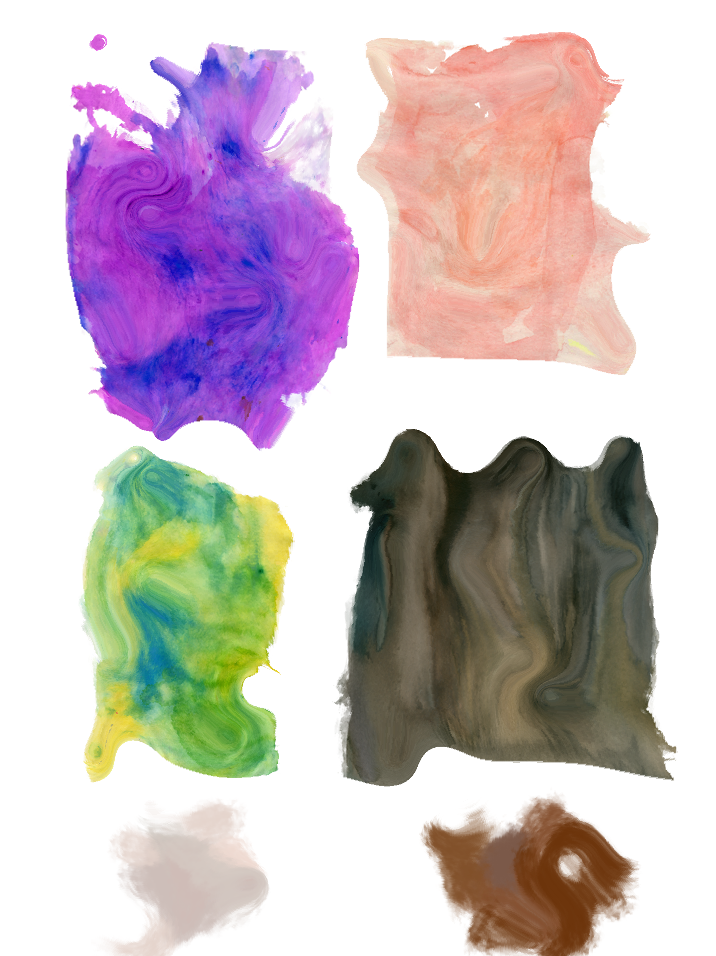
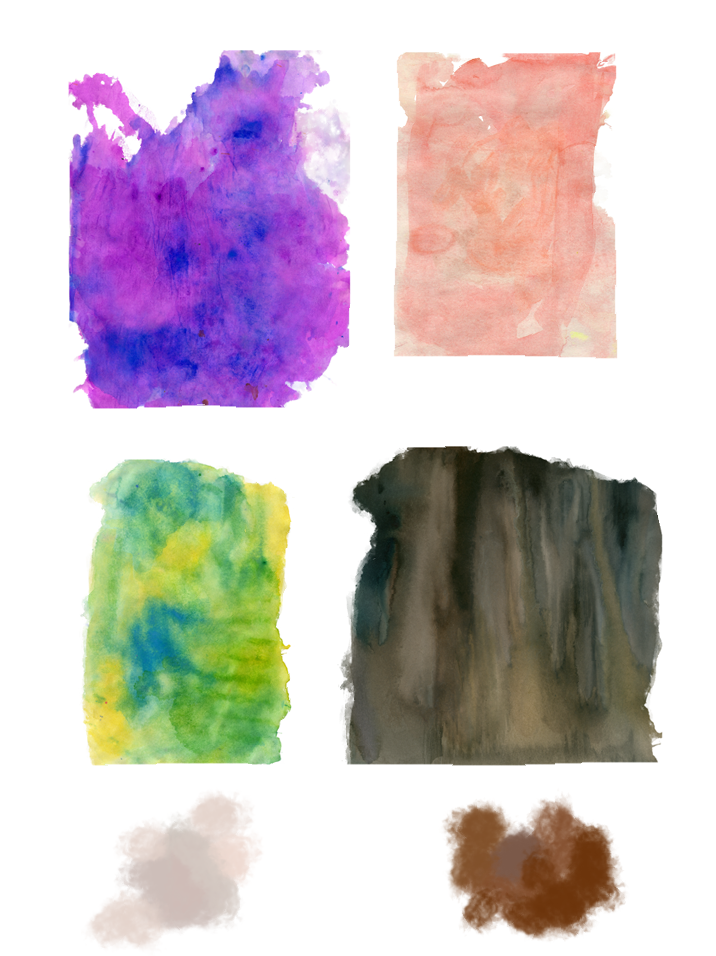
cleaned up

diff --git a/cult.cpp b/cult.cpp
@@ -73,54 +73,28 @@ void Cult::run(const QStringList &framePaths, const QString &texturePath) {
 Image Cult::processFrame(const Image& frame, const Image& prevOutput){
     std::cout<<"Processing frame"<<std::endl;
     std::vector<Image> framePyramid = ImagePyramid::make_gaussian_pyramid(frame, FILTER_STRENGTH);
-    //std::cout<<"Created frame pyramids"<<std::endl;
-
-
-
-    // // Initialize coarsest target level with low-pass filtered reference
-    // Image coarsestTarget = framePyramid.back();  // coarsest level
-    // // Replace with low-pass filtered version of the reference frame
-    // Image filteredRef = ImagePyramid::blur(frame, FILTER_STRENGTH);
-    // // Downsample to match coarsest pyramid level dimensions
-    // while(filteredRef.width > coarsestTarget.width || filteredRef.height > coarsestTarget.height){
-    //     filteredRef = ImagePyramid::downsample(filteredRef, FILTER_STRENGTH);
-    // }
-    // framePyramid.back() = filteredRef;
-
-
 
     Image currentResult = framePyramid.back();
     Image output_frame = framePyramid.back(); // start at coarsest/most blurred (end of pyramid)
 
-    //        //MAIN LOOP
-    //        for (Image& level : cur_pyramid) {
-    //            //S_deformed = deformImage()
-    //            //for each patch in Image:
-    //                //best_patch = find_match(patch, s_deformed)
-    //                //Copy best patch to output image
-    //                m_outputFrames.push_back(output_frame);
-    //        }
-
     Image s_deformed = deformImage(m_sourceTexture);
+
+    //REPLACE WITH BORDER
+    Image s_border = s_deformed;
+
     QString deformed_outPath = QString("../color-me-noisy/debug_pyramid/source_deformed.png");
     ImageUtils::writeImage(s_deformed, deformed_outPath);
     std::cout<<"Deformed source texture"<<std::endl;
 
     std::vector<Image> sourcePyramid = ImagePyramid::make_gaussian_pyramid(s_deformed, FILTER_STRENGTH);
     // std::cout<<"Created source pyramids"<<std::endl;
+    std::vector<Image> borderPyramid = ImagePyramid::make_gaussian_pyramid(s_border, FILTER_STRENGTH);
 
     for(int i = 0; i < sourcePyramid.size(); i++){
         Image cur_image = sourcePyramid[i];
         QString outPath = QString("../color-me-noisy/debug_pyramid/texpyramid_level_%1.png").arg(i);
         ImageUtils::writeImage(cur_image, outPath);
     }
-
-    // std::cout<<"Target image dimensions: "<<frame.width<<"x"<<frame.height<<std::endl;
-
-    // std::cout << "Frame pyramid levels: " << framePyramid.size() << std::endl;
-    // for (int i = 0; i < framePyramid.size(); i++) {
-    //     std::cout << "  framePyramid[" << i << "]: " << framePyramid[i].width << "x" << framePyramid[i].height << std::endl;
-    // }
 
     //Original
     NNF prevNNF;
@@ -133,16 +107,10 @@ Image Cult::processFrame(const Image& frame, const Image& prevOutput){
 
 //        Image& cur_target = framePyramid[level];
         Image& cur_source = sourcePyramid[level];
+        Image& cur_border = borderPyramid[level];
         if (level < (int)framePyramid.size() - 1) {
             currentResult = ImagePyramid::upsample(currentResult);
         }
-
-        // if (level == (int)framePyramid.size() - 1) {
-        //     // Coarsest level: no seed, just match directly
-        //     output_frame = patchmatch(cur_target, cur_source);
-        // } else {
-        //     output_frame = patchmatch(output_frame, cur_source);
-        // }
 
 
         NNF* seedNNF = nullptr;
@@ -153,78 +121,30 @@ Image Cult::processFrame(const Image& frame, const Image& prevOutput){
             seedNNF = &upscaled;
         }
 
-        prevNNF = Patchmatch::run_patchmatch(currentResult, cur_source, PATCH_RADIUS, PATCHMATCH_ITERATIONS, seedNNF);
-        output_frame = vote(currentResult, cur_source, prevNNF);
+        prevNNF = Patchmatch::run_patchmatch(currentResult, cur_source, cur_border, PATCH_RADIUS, PATCHMATCH_ITERATIONS, seedNNF);
+        output_frame = vote(currentResult, cur_source, cur_source, prevNNF);
         currentResult = output_frame;
 
         QString dbgPath = QString("../color-me-noisy/debug_pyramid/framepyramid_dbg_level_%1.png").arg(level);
         ImageUtils::writeImage(output_frame, dbgPath);
 
-        // if (level > 0) { //dont upsample at the last level
-        //     output_frame = ImagePyramid::upsample(output_frame);
-        // }
     }
 
     return output_frame;
 
-
-
-    // Image current = framePyramid.back();  // coarsest low-pass reference
-    // NNF prevNNF;
-
-    // for (int level = framePyramid.size() - 1; level >= 0; --level) {
-    //     Image& cur_source = sourcePyramid[level];
-
-    //     NNF* seedNNF = nullptr;
-    //     NNF upscaled;
-    //     if (level < (int)framePyramid.size() - 1) {
-    //         upscaled = Patchmatch::upscaleNNF(
-    //             prevNNF,
-    //             framePyramid[level + 1].width,
-    //             framePyramid[level + 1].height,
-    //             current.width,
-    //             current.height
-    //             );
-    //         seedNNF = &upscaled;
-    //     }
-
-    //     for (int iter = 0; iter < WEXLER_ITERS; ++iter) {
-    //         prevNNF = Patchmatch::run_patchmatch(
-    //             current,
-    //             cur_source,
-    //             PATCH_RADIUS,
-    //             PATCHMATCH_ITERATIONS,
-    //             seedNNF
-    //             );
-
-    //         current = vote(current, cur_source, prevNNF);
-
-    //         // After first iteration, use current NNF normally
-    //         seedNNF = nullptr;
-    //     }
-
-    //     if(level > 0){
-    //         current = ImagePyramid::upsample(current);
-    //     }
-
-    //     QString dbgPath = QString("../color-me-noisy/debug_pyramid/ouput_level_%1.png").arg(level);
-    //     ImageUtils::writeImage(current, dbgPath);
-    // }
-
-    // return current;
 }
 
-Image Cult::patchmatch(const Image& target, const Image& source){
+Image Cult::patchmatch(const Image& target, const Image& source, const Image& boundarySource){
     Image output_image;
 
     //std::cout<<"Running Patchmatch"<<std::endl;
     NNF nnf = Patchmatch::run_patchmatch(target, source, PATCH_RADIUS, PATCHMATCH_ITERATIONS);
-    output_image = vote(target, source, nnf);
+    output_image = vote(target, source, boundarySource, nnf);
     //std::cout<<"Finished Patchmatch and Voting"<<std::endl;
     return output_image;
 }
 
-Image Cult::vote(const Image& target, const Image& source, NNF& nnf){
+Image Cult::vote(const Image& target, const Image& source, const Image& boundary, NNF& nnf){
 
 
     Image processed_frame = target;
@@ -262,53 +182,6 @@ Image Cult::vote(const Image& target, const Image& source, NNF& nnf){
     }
 
     return processed_frame;
-
-    // Image processed_frame = target;
-    // std::vector<RGB> processed_pixels;
-    // //For each pixel
-    // const std::vector<RGB>& pixels = target.pixels;
-    // for(int i = 0; i < pixels.size(); i++){
-    //     int x = i%target.width;
-    //     int y = i/target.width;
-    //     RGB accum;
-    //     accum.r = 0,accum.g = 0, accum.b = 0;
-    //     int count = 0;
-    //     //For each pixel in the patch radius around iterated pixel
-    //     for(int dy = -PATCH_RADIUS; dy <= PATCH_RADIUS; dy++){
-    //         for(int dx = -PATCH_RADIUS; dx <= PATCH_RADIUS; dx++){
-    //             //Offset position
-    //             int px = x + dx;
-    //             int py = y + dy;
-
-    //             //patch validity check
-    //             if(Patchmatch::isValidPatch(target, px, py, PATCH_RADIUS)){
-    //                 Match match = nnf[py*target.width + px];
-
-    //                 //match to source
-    //                 int sx = match.u - dx;
-    //                 int sy = match.v - dy;
-
-    //                 if(sx>=0 && sx < source.width && sy>=0 && sy<source.height){
-    //                     RGB rgb = ImageUtils::rgbAt(source, sx, sy);
-    //                     accum.r += rgb.r;
-    //                     accum.g += rgb.g;
-    //                     accum.b += rgb.b;
-    //                     count++;
-    //                 }
-
-    //             }
-    //         }
-    //     }
-    //     RGB outRGB;
-    //     if(count==0) std::cout<<"No matches found in voting";
-    //     outRGB.r = accum.r/count;
-    //     outRGB.g = accum.g/count;
-    //     outRGB.b = accum.b/count;
-    //     outRGB.a = 255;
-    //     processed_pixels.push_back(outRGB);
-    // }
-    // processed_frame.pixels = processed_pixels;
-    // return processed_frame;
 }
 
 RGB Cult::modeVote(const std::vector<RGB>& votes) {

diff --git a/patchmatch.cpp b/patchmatch.cpp
@@ -15,6 +15,8 @@ NNF Patchmatch::run_patchmatch(const Image& target,
 
     initializeNNF(target, source, nnf, patchRadius, prevNNF);
 
+    std::vector<bool> edgeMask = createEdgeMask(target);
+
     for(int i = 0; i < iterations; i++){
         if(i%2==0){ //Forward propogation
             for(int y = 0; y < target.height; y++){
@@ -318,11 +320,11 @@ NNF Patchmatch::upscaleNNF(const NNF& nnf, int oldWidth, int oldHeight,
     return upsampled;
 }
 
-std::vector<bool> createEdgeMask(const Image& target){
+std::vector<bool> Patchmatch::createEdgeMask(const Image& target){
     std::vector<bool> edgeMask(target.height*target.width, false);
 
     int WHITE_THRESHOLD = 200;
-    int BOUNDARY_DIST = 10;
+    int BOUNDARY_DIST = 1;
 
     for(int y = 1; y < target.height-1; y++){
         for(int x = 1; x < target.width-1; x++){

diff --git a/cult.h b/cult.h
@@ -35,10 +35,11 @@ private:
     Image deformImage(const Image& image);
     Image arapMLS(const Image& image, std::vector<Eigen::Vector2f>& originalPoints,
                   std::vector<Eigen::Vector2f>& deformedPoints);
-    Image patchmatch(const Image& target, const Image& source);
+    Image patchmatch(const Image& target, const Image& source, const Image& boundarySource);
 
-    Image vote(const Image& target, const Image& source, NNF& nnf);
+    Image vote(const Image& target, const Image& source, const Image & boundary, NNF& nnf);
     RGB modeVote(const std::vector<RGB>& votes);
+    Image extractSourceEdge(const Image& texture);
     
     const int PATCH_RADIUS = 8;
     const int PATCHMATCH_ITERATIONS = 4;

diff --git a/patchmatch.h b/patchmatch.h
@@ -17,7 +17,7 @@ class Patchmatch
 {
 public:
     static NNF run_patchmatch(const Image& target,
-                              const Image& source,
+                              const Image& source, const Image& boundary,
                               int patchRadius,
                               int iterations, NNF* prevNNF = nullptr);
     static bool isValidPatch(const Image& image, int x, int y, int patchRadius);
